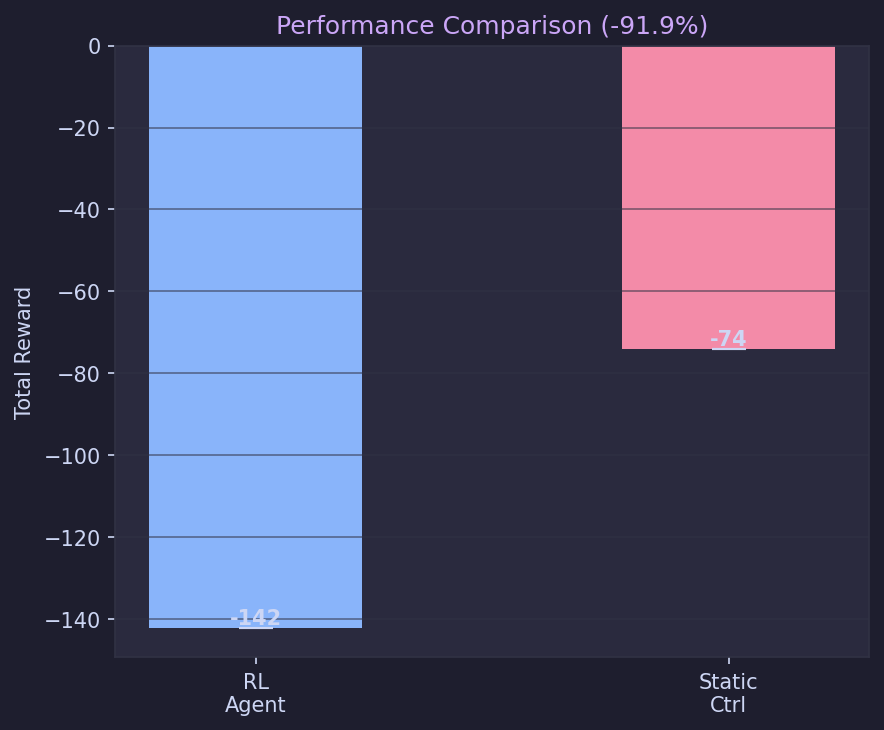
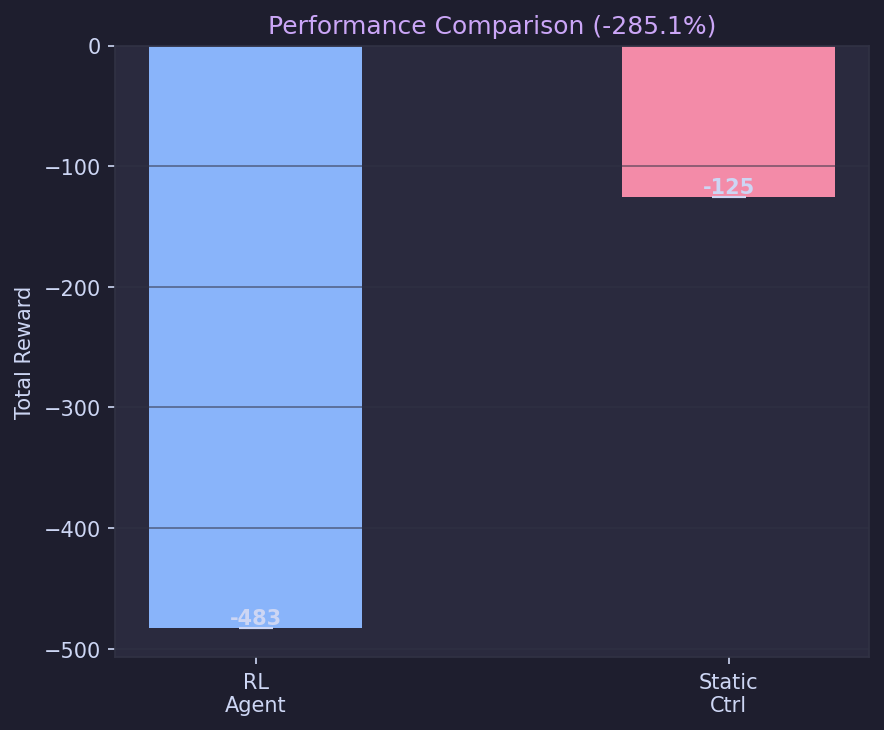
update to count pending car

diff --git a/utils/plots.py b/utils/plots.py
@@ -9,6 +9,7 @@ def moving_average(values, window=10):
 def plot_training(rewards, losses, wait_parts=None, count_parts=None, save_path="training_results.png"):
     """
     Plots training rewards, losses, and optional component breakdowns.
+    Expects step-wise data to show granularity per action selection.
     """
     n_rows = 3 if wait_parts is not None else 2
     fig, axes = plt.subplots(n_rows, 1, figsize=(12, 4.5 * n_rows), facecolor="#1e1e2e")
@@ -23,26 +24,37 @@ def plot_training(rewards, losses, wait_parts=None, count_parts=None, save_path=
         ax.yaxis.label.set_color("#cdd6f4")
         ax.title.set_color("#cba6f7")
 
-    # Reward panel
-    episodes = np.arange(1, len(rewards) + 1)
-    axes[0].scatter(episodes, rewards, color="#94e2d5", alpha=0.35, s=14)
-    if len(rewards) >= 5:
-        sm = moving_average(rewards, window=5)
-        axes[0].plot(episodes[4:], sm, color="#94e2d5", linewidth=2.2,
-                     label="Moving avg (5 ep)")
-    axes[0].set_xlabel("Episode")
-    axes[0].set_ylabel("Total Reward")
-    axes[0].set_title("Training Reward (higher = better performance)")
+    # Reward panel (Step-wise)
+    steps = np.arange(1, len(rewards) + 1)
+    # Scatter with low alpha to see density
+    axes[0].scatter(steps, rewards, color="#94e2d5", alpha=0.15, s=6)
+    
+    if len(rewards) >= 100:
+        window = 100
+        sm = moving_average(rewards, window=window)
+        axes[0].plot(steps[window-1:], sm, color="#94e2d5", linewidth=2.5,
+                     label=f"Moving avg ({window} steps)")
+    
+    axes[0].set_xlabel("Decision Point (Action Selection)")
+    axes[0].set_ylabel("Step Reward")
+    axes[0].set_title("Training Reward (per Step)")
     axes[0].legend(facecolor="#313244", labelcolor="#cdd6f4",
                    fontsize=9, loc="lower right")
     axes[0].grid(True, color="#313244", alpha=0.6)
 
-    # Loss panel
-    axes[1].plot(losses, color="#f38ba8", alpha=0.5, linewidth=1)
-    if len(losses) >= 10:
-        axes[1].plot(np.arange(10, len(losses) + 1), moving_average(losses),
-                     color="#f38ba8", linewidth=2.2, label="Moving avg (10 ep)")
-    axes[1].set_xlabel("Episode")
+    # Loss panel (Step-wise)
+    # Note: agents might start updating late, so we match based on the last N steps if needed,
+    # but here we just plot the sequence of recorded losses.
+    loss_steps = np.arange(1, len(losses) + 1)
+    axes[1].plot(loss_steps, losses, color="#f38ba8", alpha=0.4, linewidth=1)
+    
+    if len(losses) >= 100:
+        window = 100
+        sm_loss = moving_average(losses, window=window)
+        axes[1].plot(loss_steps[window-1:], sm_loss,
+                     color="#f38ba8", linewidth=2.5, label=f"Moving avg ({window} steps)")
+                     
+    axes[1].set_xlabel("Update Step")
     axes[1].set_ylabel("Loss (Huber)")
     axes[1].set_title("Training Loss")
     axes[1].legend(facecolor="#313244", labelcolor="#cdd6f4")
@@ -50,14 +62,15 @@ def plot_training(rewards, losses, wait_parts=None, count_parts=None, save_path=
 
     # Component panel (if provided)
     if wait_parts is not None and count_parts is not None:
-        # Use two lines for clarity
-        axes[2].plot(episodes, wait_parts, color="#fab387", alpha=0.7, label="Wait Component")
-        axes[2].plot(episodes, count_parts, color="#89b4fa", alpha=0.7, label="Count Component")
-        if len(wait_parts) >= 5:
-            axes[2].plot(episodes[4:], moving_average(wait_parts, 5), color="#fab387", linewidth=2)
-            axes[2].plot(episodes[4:], moving_average(count_parts, 5), color="#89b4fa", linewidth=2)
-        axes[2].set_xlabel("Episode")
-        axes[2].set_ylabel("Component Reward (Unscaled)")
+        axes[2].plot(steps, wait_parts, color="#fab387", alpha=0.5, label="Wait Component")
+        axes[2].plot(steps, count_parts, color="#89b4fa", alpha=0.5, label="Count Component")
+        
+        if len(wait_parts) >= 100:
+            axes[2].plot(steps[99:], moving_average(wait_parts, 100), color="#fab387", linewidth=2)
+            axes[2].plot(steps[99:], moving_average(count_parts, 100), color="#89b4fa", linewidth=2)
+            
+        axes[2].set_xlabel("Decision Point (Action Selection)")
+        axes[2].set_ylabel("Component Reward")
         axes[2].set_title("Reward Breakdown (Harmonic Components)")
         axes[2].legend(facecolor="#313244", labelcolor="#cdd6f4")
         axes[2].grid(True, color="#313244", alpha=0.6)

diff --git a/env/traffic_env.py b/env/traffic_env.py
@@ -54,7 +54,7 @@ COUNT_REWARD_UPPER_BOUND = 10
 WAIT_REWARD_UPPER_BOUND = 15
 WAIT_TIME_LIMIT = 60
 
-def compute_reward(lanes: list, left_lanes: list, mode: str = "wait", return_components: bool = False) -> float:
+def compute_reward(lanes: list, left_lanes: list, mode: str = "wait", return_components: bool = False) -> float | tuple[float, float, float]:
     """
     Standardized reward function shared between Environment and Evaluation.
     """
@@ -66,6 +66,9 @@ def compute_reward(lanes: list, left_lanes: list, mode: str = "wait", return_com
         wait_val = 0.0
         count_val = 0.0
 
+        pending_count = len(traci.lane.getPendingVehicles(l))
+        halting_count = traci.lane.getLastStepHaltingNumber(l) + pending_count
+
         if mode == "harmonic" or mode == "wait":
             veh_ids = traci.lane.getLastStepVehicleIDs(l)
             lead_wait = 0.0
@@ -75,11 +78,14 @@ def compute_reward(lanes: list, left_lanes: list, mode: str = "wait", return_com
 
             if mode == "harmonic":
                 wait_val = WAIT_REWARD_UPPER_BOUND / (1 + np.exp(-0.05 * (lead_wait - WAIT_TIME_LIMIT)))
-                count_val = COUNT_REWARD_UPPER_BOUND * (1 - np.exp(-0.1 * traci.lane.getLastStepHaltingNumber(l)))
+                count_val = COUNT_REWARD_UPPER_BOUND * (1 - np.exp(-0.1 * halting_count))
             else:
                 wait_val = lead_wait
+                # Add a linear penalty for pending vehicles in "wait" mode 
+                # to ensure total penalty keeps raising when lane is full
+                count_val = pending_count 
         else:  # "count"
-            count_val = traci.lane.getLastStepHaltingNumber(l) ** 2
+            count_val = halting_count ** 2
 
         penalty = 1
         
@@ -106,7 +112,7 @@ class TrafficEnv:
 
     SCENARIOS = ("uniform", "horizontal", "vertical", "alternate")
 
-    def __init__(self, sumo_cfg: str = None, use_gui: bool = False, port: int = 8813,
+    def __init__(self, sumo_cfg: str | None = None, use_gui: bool = False, port: int = 8813,
                  bernoulli_p: float = 0.05, reward_mode: str = "wait",
                  eval_mode: bool = False, drain_step_cap: int = 200,
                  scenario: str = "uniform"):
@@ -257,7 +263,8 @@ class TrafficEnv:
     def _get_state(self) -> np.ndarray:
         queues, waits = [], []
         for group in self.LANE_GROUPS:
-            halt = sum(traci.lane.getLastStepHaltingNumber(l) for l in group)
+            # Include pending (backlogged) vehicles in the queue state
+            halt = sum(traci.lane.getLastStepHaltingNumber(l) + len(traci.lane.getPendingVehicles(l)) for l in group)
             max_lead_wait = 0.0
             for l in group:
                 veh_ids = traci.lane.getLastStepVehicleIDs(l)
@@ -301,6 +308,7 @@ class TrafficEnv:
         for _ in range(config.STEP_SIZE):
             traci.simulationStep()
 
+        # Calculate reward and its components
         reward, wait_sum, count_sum = compute_reward(
             self.ALL_LANES, self.LEFT_LANES, mode=self.reward_mode, return_components=True
         )

diff --git a/train.py b/train.py
@@ -25,10 +25,17 @@ def train(num_episodes: int = 100, use_gui: bool = False, resume: str = None,
     if resume and os.path.isfile(resume):
         agent.load(resume)
 
-    losses_log = []
-    rewards_log = []
-    wait_log = []
-    count_log = []
+    losses_log = []    # Episode average losses
+    rewards_log = []   # Episode total rewards
+    wait_log = []      # Episode total wait penalty
+    count_log = []     # Episode total count penalty
+    
+    # Step-wise logs for higher resolution plotting
+    step_rewards = []
+    step_losses = []
+    step_wait = []
+    step_count = []
+    
     best_reward = -float("inf")
 
     # Session identifier
@@ -68,6 +75,14 @@ def train(num_episodes: int = 100, use_gui: bool = False, resume: str = None,
                 total_reward += reward
                 ep_wait += info.get("wait_part", 0.0)
                 ep_count += info.get("count_part", 0.0)
+                
+                # Record step-wise data
+                step_rewards.append(reward)
+                step_wait.append(info.get("wait_part", 0.0))
+                step_count.append(info.get("count_part", 0.0))
+                if loss is not None:
+                    step_losses.append(loss)
+                
                 state = next_state
                 
                 if done:
@@ -121,9 +136,9 @@ def train(num_episodes: int = 100, use_gui: bool = False, resume: str = None,
     finally:
         env.close()
 
-    if rewards_log:
+    if step_rewards:
         agent.save(os.path.join(config.CHECKPOINT_DIR, "dqn_final.pt"))
-        plot_training(rewards_log, losses_log, wait_log, count_log, save_path=session_plot_path)
+        plot_training(step_rewards, step_losses, step_wait, step_count, save_path=session_plot_path)
         print(f"\n  Training complete. Best cycle reward: {best_reward:.1f}")
     
     return agent, rewards_log

diff --git a/agent/dqn_agent.py b/agent/dqn_agent.py
@@ -25,7 +25,7 @@ import config
 class QNetwork(nn.Module):
     """Two-hidden-layer MLP: state → Q(state, action) for each action."""
 
-    def __init__(self, state_size: int, action_size: int, hidden: int = 400):
+    def __init__(self, state_size: int, action_size: int, hidden: int = 200):
         super().__init__()
         self.net = nn.Sequential(
             nn.Linear(state_size, hidden),
